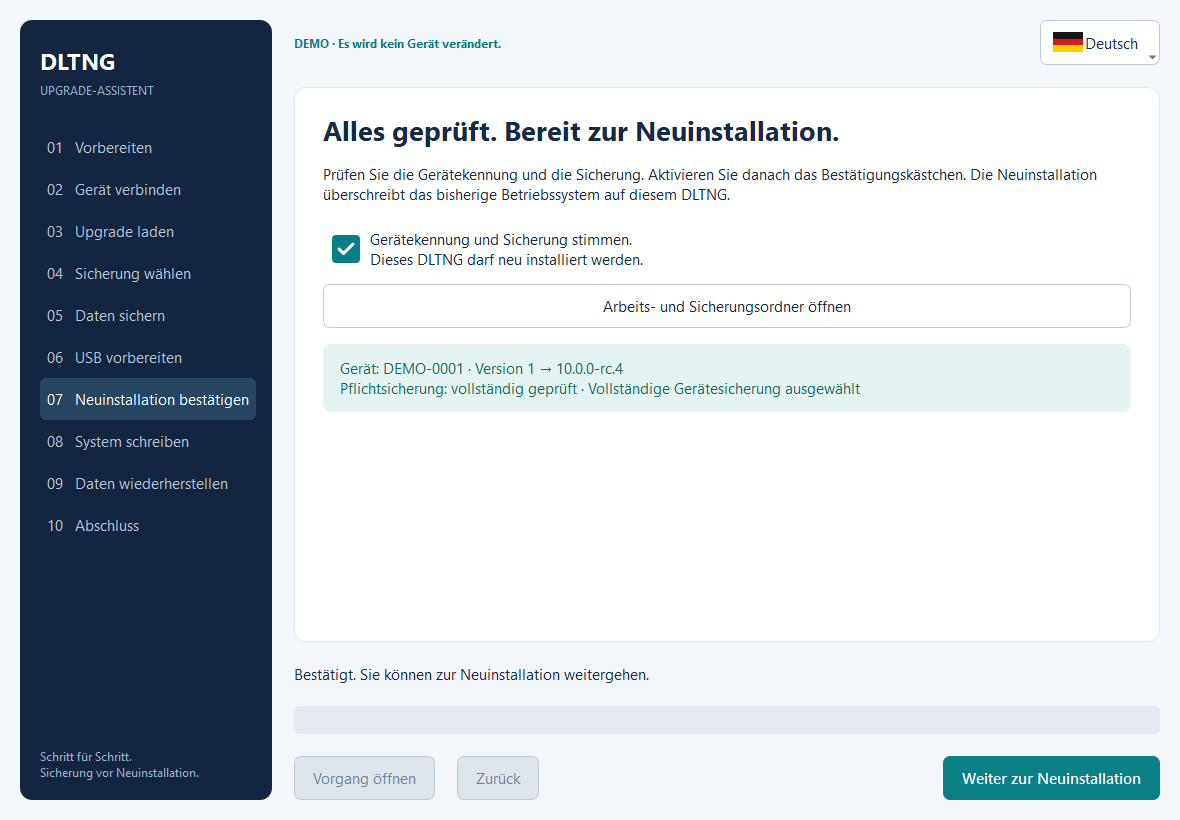
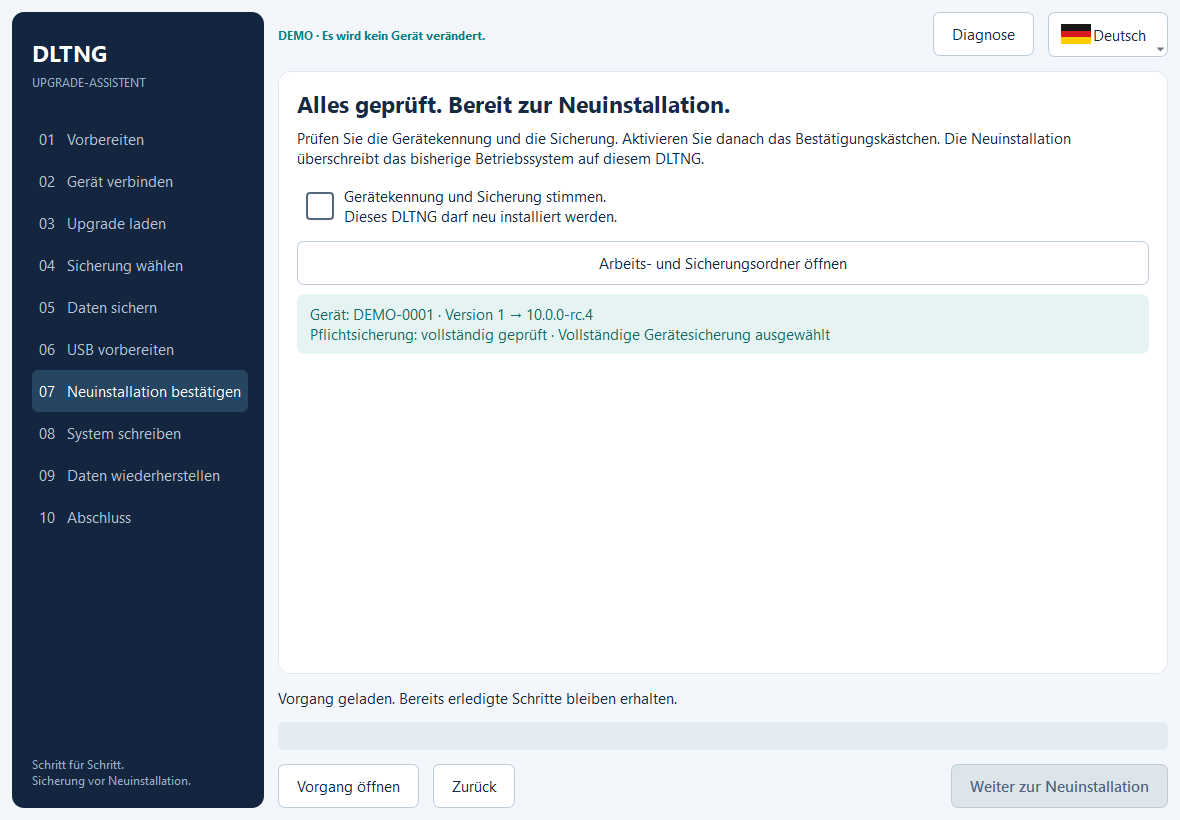
Document recovery, diagnostics and compact wizard in German and English

diff --git a/docs/de/troubleshooting.md b/docs/de/troubleshooting.md
@@ -16,9 +16,9 @@ Die Fehlermeldung nennt das Problem und einen nächsten Schritt. Sicherungen und
 
 ## Korrekturen für den aktuellen Test
 
-**Testausgabe 0.2.5 verwenden.** Die Bestätigung vor der Neuinstallation ist jetzt gut sichtbar; der Button wird erst nach Setzen des Häkchens aktiv. Fortschritt aus vorherigen Schritten wird zurückgesetzt und längere Prüfungen zeigen eigene Statusmeldungen. Sie korrigiert den Start des Windows-Helfers für USB-Treiber und direkte Ethernet-Verbindungen, die Lesbarkeit im dunklen Windows-Design und die Rückmeldungen der Gerätesuche. Die bekannten älteren NFC-/uWSGI-Protokolle werden mitgesichert; ein eigenes Anwendungssymbol ist enthalten. Ab 0.2.4 verhindern die USB-Schritte im Vordergrund das automatische Öffnen der Bootpartition. Neue, vergrößerbare Geräte- und Anschlussbilder basieren auf Originalfotos.
+**Testausgabe 0.2.6 verwenden.** Sie behebt Zugriffsfehler beim Austausch des Windows-Fortschritts und kann laufende oder bereits erfolgreich abgeschlossene Systemhelfer wieder aufnehmen. Die Oberfläche zeigt erledigte Schritte über **Zurück** an, ohne sie erneut auszuführen. Die kompakte Ansicht hält die Hauptaktion sichtbar; der Bildhinweis entfällt. **Diagnose** erklärt die Fehlercodes, exportiert ein bereinigtes ZIP und bietet nach Bestätigung den Versand an UPS an.
 
-Die vorherige EXE schließen, die neue EXE starten und **„Vorgang öffnen“** wählen. Dazu die bisherige `session.json` im dauerhaften Arbeitsordner auswählen. Das heruntergeladene Image kann weiterverwendet werden. Die Sicherung erneut ausführen; der Assistent prüft die Geräteidentität und aktualisiert den Sicherungshelfer. Den bisherigen Arbeitsordner aufbewahren. Falls das Altgerät zwischendurch wieder normal betrieben wurde, eine neue Sicherung erstellen.
+Lassen Sie das Gerät angeschlossen, solange ein Systemhelfer arbeitet. Nach dessen Abschluss die alte EXE schließen, 0.2.6 starten und **„Vorgang öffnen“** wählen. Die aktuelle `session.json` verwenden. Bei mehreren Vorgängen helfen Datum, Fortschritt und Ordner bei der Auswahl; der neueste steht oben. Bereits geprüfter Download und Sicherung bleiben erhalten. Ein erfolgreicher Schreibnachweis führt direkt zur Datenwiederherstellung. Falls das Altgerät nach der Sicherung wieder normal betrieben wurde, ist dagegen eine neue Sicherung erforderlich.
 
 Im vorhandenen LAN genügt die normale Geräteverbindung. Die direkte Serviceverbindung ist für ein eigenes Ethernet-Kabel zwischen PC und DLTNG vorgesehen. Administratorrechte fordert die App bei der jeweiligen Windows-Aktion an.
 
@@ -33,7 +33,7 @@ Keine unvollständige Datei als gültige Sicherung verwenden. Die Sitzung öffne
 
 ## Schreiben unterbrochen
 
-Arbeitsordner unverändert aufbewahren. Gerät anhand der freigegebenen Anleitung wieder in den Programmiermodus bringen, die gespeicherte Sitzung öffnen und das Image vollständig neu schreiben lassen. Anschließend wird wieder vollständig zurückgelesen. Nicht versuchen, an einer vermuteten Schreibposition manuell fortzusetzen.
+Arbeitsordner behalten und zuerst **Schreibstatus wieder aufnehmen**. Eine Fehlermeldung der Oberfläche bedeutet nicht zwingend, dass der Systemhelfer angehalten wurde. Während er arbeitet, Strom/USB angeschlossen lassen und keinen zweiten Versuch starten. Ein gespeicherter Erfolg führt zur Wiederherstellung ohne erneutes Schreiben. Erst bei tatsächlich fehlgeschlagenem/beendetem Helfer dem Wiederanlauf folgen, das USB-Gerät neu erkennen und das gesamte Image erneut schreiben und prüfen lassen.
 
 ## Wiederherstellung unterbrochen
 
@@ -46,3 +46,21 @@ Wenn eine geprüfte vollständige Gerätesicherung vorhanden ist, bietet der Ass
 ## Sprache und Arbeitsordner
 
 Die Sprachwahl gilt für den Arbeitsordner. Bei einem neuen Ordner startet der Assistent standardmäßig auf Deutsch. Die Flagge oben rechts wechselt auf Englisch. Eine Meldung über nicht speicherbare Spracheinstellungen bedeutet, dass Schreibrechte für diesen Ordner geprüft werden müssen.
+
+## Fehlercodes und Diagnosepaket
+
+Oben **Diagnose** wählen, nach dem Fehlercode suchen und den Handlungshinweis lesen. Der letzte technische Fehler lässt sich dort einsehen. **Diagnosepaket im Arbeitsordner erstellen** exportiert eine ZIP-Datei mit zeitlichem Verlauf einschließlich erreichbarer früherer Vorgänge desselben Geräts. Frühere Versionen haben technische Details teilweise nicht aufgezeichnet; diese können nicht nachträglich ergänzt werden.
+
+Das Paket enthält Gerätekennung, Rechnerpfade, Prüfergebnisse und bereinigte App-/Systemhelfer-Protokolle. Passwörter und Sitzungstoken werden entfernt; Nutzdateien, Datenbanken und Images werden nicht beigefügt. **Diagnosepaket an UPS senden** verlangt eine ausdrückliche Bestätigung. Internet und aktuelle Geräte-/Imagefreigabe sind erforderlich. Bei Fehlern bleibt das ZIP lokal erhalten.
+
+UPS bestätigt den Empfang mit einer Prüfsummenquittung. Pakete sind für angemeldete Administratoren unter **System-Images → Upgrade-Diagnose** verfügbar, werden 30 Tage aufbewahrt und nicht automatisch mit KI ausgewertet. Pro ZIP sind maximal 20 MiB zulässig.
+
+| Code | Bedeutung und nächster Schritt |
+|---|---|
+| `APP-001`, `WIN-099` | Unerwarteter App-/Systemhelferfehler. Bei Schreibphase zuerst Status wieder aufnehmen; Diagnosepaket erstellen. |
+| `WIN-010` | Windows-Administratorabfrage abgebrochen. Erneut starten und die eigene DLTNG-App freigeben. |
+| `WIN-013` | Ein Systemhelfer schreibt bereits. Angeschlossen lassen, dessen Status wieder aufnehmen. |
+| `WIN-016` | Systemhelfer ohne vollständiges Ergebnis beendet. Geführten Wiederanlauf verwenden. |
+| `SES-007` | Schreibnachweis gehört nicht zur Sitzung. Richtige Sitzung wählen; Support einschalten. |
+| `DIA-001` | Diagnosepaket über 20 MiB. Lokal behalten und Support kontaktieren. |
+| `DIA-002` | UPS hat den Upload nicht angenommen. Lokales ZIP behalten, Verbindung und Freigabe prüfen. |

diff --git a/docs/en/troubleshooting.md b/docs/en/troubleshooting.md
@@ -16,9 +16,9 @@ Error messages describe the problem and the next action. Backups and session sta
 
 ## Fixes for the current test
 
-**Use test build 0.2.5.** The installation confirmation is now clearly visible; its button becomes active only after ticking the box. Progress from previous steps is cleared and long checks show their own status messages. It fixes Windows helper startup for USB drivers and direct Ethernet connections, readability with dark Windows settings, and device-search feedback. Known legacy NFC/uWSGI logs are included in the backup; a dedicated application icon is included.From 0.2.4, USB steps in the foreground suppress automatic opening of the boot partition. New, enlargeable device and connector illustrations are based on original photos.
+**Use test build 0.2.6.** It tolerates Windows progress-file access errors and resumes active or successfully completed helpers. **Back** reviews completed steps without repeating operations. The compact view keeps the primary action visible and removes the picture caption. **Diagnostics** explains error codes, exports a redacted ZIP and offers user-confirmed upload to UPS.
 
-Close the previous EXE, start the new one and choose **“Open session”**. Select the existing `session.json` in the permanent work folder. The downloaded image can be reused. Run the backup again; the wizard verifies device identity and refreshes the backup helper. Keep the existing work folder. If the old device has since resumed normal operation, create a fresh backup.
+Keep the device connected while a helper is working. After it finishes, close the old EXE, start 0.2.6 and choose **“Open session”** with the current `session.json`. If multiple sessions exist, choose using their date, progress and folder; newest is listed first. Verified downloads and backups are retained. A successful saved write result leads directly to data restoration. If the original device resumed normal operation after backup, a fresh backup is required.
 
 On an existing LAN, use the normal device connection. The direct service connection is intended for a dedicated Ethernet cable between the PC and DLTNG. The app requests administrator rights for the relevant Windows operation.
 
@@ -33,7 +33,7 @@ Never treat an incomplete file as a valid backup. Open the session and follow th
 
 ## Interrupted writing
 
-Keep the work folder intact. Follow the approved instructions to return the device to programming mode, open the saved session and let the wizard write the entire image again. Full read-back verification follows. Do not try to resume manually at a guessed write position.
+Keep the work folder and first choose **Resume write monitoring**. A UI error does not necessarily mean the helper stopped. While it is running, keep power/USB connected and do not start another attempt. A saved success leads to restoration without writing again. Only after an actual helper failure/exit should you follow recovery, rediscover USB and write and verify the entire image again.
 
 ## Interrupted restoration
 
@@ -46,3 +46,21 @@ If a verified complete device backup exists, the wizard offers to write it back 
 ## Language and work folder
 
 The language preference belongs to the work folder. A new folder defaults to German. Use the flag at the top right to switch to English. A message saying the language preference cannot be saved means the folder's write permissions need checking.
+
+## Error codes and diagnostic package
+
+Select **Diagnostics** at the top, search for the error code and read its next action. The latest technical error is shown there. **Create diagnostic package in working folder** exports a ZIP timeline including available earlier sessions for the same device. Older versions did not record all technical details; missing details cannot be recreated.
+
+Packages contain device IDs, computer paths, check results and redacted app/helper logs. Passwords and session tokens are removed; customer files, databases and images are excluded. **Send diagnostic package to UPS** requires explicit confirmation, Internet access and current device/image authorisation. Failed uploads retain the local ZIP.
+
+UPS returns a checksum receipt. Logged-in administrators find packages under **System Images → Upgrade diagnostics**. Packages are retained for 30 days, are not automatically processed by AI, and have a 20 MiB upload limit.
+
+| Code | Meaning and next action |
+|---|---|
+| `APP-001`, `WIN-099` | Unexpected app/helper error. During writing, resume monitoring first; create a diagnostic package. |
+| `WIN-010` | Windows administrator prompt cancelled. Retry and approve your DLTNG app. |
+| `WIN-013` | A helper is already writing. Keep the device connected and resume monitoring. |
+| `WIN-016` | Helper exited without a complete result. Use guided recovery. |
+| `SES-007` | Write record belongs to another session. Choose the correct session; contact support. |
+| `DIA-001` | Package exceeds 20 MiB. Keep it locally and contact support. |
+| `DIA-002` | UPS rejected the upload. Keep the local ZIP; check connection and authorisation. |

diff --git a/docs/de/guide.md b/docs/de/guide.md
@@ -2,7 +2,7 @@
 
 Diese Anleitung beschreibt den vorgesehenen Ablauf. In der aktuellen Entwicklungsausgabe lässt er sich vollständig im **Demomodus** ausprobieren. Ein echter Flashvorgang setzt ein ausdrücklich freigegebenes Gerät und ein passendes signiertes Image voraus.
 
-Diese Anleitung berücksichtigt die **Testausgabe 0.2.5**, einschließlich der neuen Bestätigungsanzeige, Anschlussbilder und Explorer-Unterdrückung. Der öffentliche Standarddownload bleibt 0.2.0; die Testausgabe wird für das freigegebene Laborgerät bereitgestellt.
+Diese Anleitung berücksichtigt die **Testausgabe 0.2.6**, einschließlich der neuen Bestätigungsanzeige, Anschlussbilder und Explorer-Unterdrückung. Der öffentliche Standarddownload bleibt 0.2.0; die Testausgabe wird für das freigegebene Laborgerät bereitgestellt.
 
 ## Vor dem Start
 
@@ -18,7 +18,7 @@ Oben rechts auf die **Landesflagge mit Sprachname** klicken und **Deutsch** oder
 
 ![Sprachwahl und Startseite](assets/ui-de.png)
 
-*Abbildung: Demomodus der Testausgabe 0.2.4.*
+*Abbildung: Demomodus der Testausgabe 0.2.6.*
 
 ## 1 · Vorbereiten
 
@@ -28,7 +28,7 @@ Oben rechts auf die **Landesflagge mit Sprachname** klicken und **Deutsch** oder
 
 PC und DLTNG an dasselbe LAN anschließen. Die IP-Adresse des DLTNG eingeben oder **„DLTNG im Netzwerk suchen“** wählen. **„Gerät prüfen“** liest Gerätekennung, Hardware und Version.
 
-Bei einem direkten Ethernet-Kabel den ausdrücklich dafür verwendeten PC-Adapter auswählen. Bei fester Geräteadresse auch die Netzgröße angeben, beispielsweise `192.168.1.25/24`. Für ein Gerät mit DHCP steht die begrenzte Hilfe **„Direktverbindung: DLTNG ohne feste IP finden“** zur Verfügung. Diese nur auf einer direkten Kabelverbindung ohne Firmennetz oder Switch aktivieren.
+Über **„Optionen für direkte Kabelverbindung anzeigen“** die zusätzlichen Einstellungen öffnen. Bei einem direkten Ethernet-Kabel den ausdrücklich dafür verwendeten PC-Adapter auswählen. Bei fester Geräteadresse auch die Netzgröße angeben, beispielsweise `192.168.1.25/24`. Für ein Gerät mit DHCP steht die begrenzte Hilfe **„Direktverbindung: DLTNG ohne feste IP finden“** zur Verfügung. Diese nur auf einer direkten Kabelverbindung ohne Firmennetz oder Switch aktivieren.
 
 ## 3 · Upgrade laden
 
@@ -50,7 +50,7 @@ Gesichert werden die bekannten Konfigurationen, Nutzdateien, lokalen Datenbanken
 
 ## 6 · USB vorbereiten
 
-**„Gerät herunterfahren“** wählen. Anschließend die **freigegebene Anleitung für die tatsächliche Trägerplatine** zum Boot-Taster und Programmierkabel befolgen. Danach **„USB-Gerät erkennen“** wählen.
+**„Gerät herunterfahren“** wählen und warten, bis das Display vollständig aus ist. Erst danach das Stromkabel abziehen. Das Ausstecken ersetzt kein geregeltes Herunterfahren. Anschließend die **freigegebene Anleitung für die tatsächliche Trägerplatine** zum Boot-Taster und Programmierkabel befolgen. Danach **„USB-Gerät erkennen“** wählen.
 
 ### Die Anschlüsse erkennen
 
@@ -77,9 +77,9 @@ Windows stellt diese [AutoPlay-Abfrage an das Vordergrundfenster](https://learn.
 
 ## 7 · Neuinstallation bestätigen
 
-Gerätekennung, Zielversion und Sicherungsstatus kontrollieren. Nur für das richtige Gerät das Kästchen **„Gerätekennung und Sicherung stimmen“** aktivieren. Danach wird **„Weiter zur Neuinstallation“** freigegeben. Dieser Klick öffnet Schritt 8; er startet noch keinen Schreibvorgang.
+Gerätekennung, Zielversion und Sicherungsstatus kontrollieren. Nur für das richtige Gerät das Kästchen **„Gerätekennung und Sicherung stimmen“** aktivieren. Es erscheint ein Hinweis zu Unterbrechung, möglicher Startunfähigkeit, eigenem Risiko und Benutzerkontensteuerung. Nur nach dessen Zustimmung bleibt das Häkchen gesetzt. Danach wird **„Weiter zur Neuinstallation“** freigegeben. Dieser Klick öffnet Schritt 8; er startet noch keinen Schreibvorgang.
 
-![Sichtbare Bestätigung in Testausgabe 0.2.5](assets/confirmation-de.png)
+![Sichtbare Bestätigung in Testausgabe 0.2.6](assets/confirmation-de.png)
 
 Fehlt das Häkchen, bleibt die Schaltfläche grau und der Status fordert zur Bestätigung auf. Vor dem eigentlichen Start steht der Fortschritt auf null.
 
@@ -102,3 +102,6 @@ Den Sicherungsordner aufbewahren. Er enthält Sicherung, Sitzungszustand und Pro
 ## Wieder aufnehmen oder zurückkehren
 
 Über **„Vorgang öffnen“** die `session.json` im bisherigen Arbeitsordner auswählen. Das Programm setzt an der passenden Stelle fort. Wenn das Altgerät nach der Sicherung wieder normal gearbeitet hat, ist eine neue Sicherung notwendig. Eine vorhandene vollständige Gerätesicherung kann über **„Ursprüngliches System wiederherstellen“** auf dasselbe Gerät zurückgeschrieben werden; danach muss dessen Start geprüft werden.
+
+
+**Zurück** zeigt bereits erledigte Schritte zur Ansicht. **Weiter** führt vorwärts, ohne Aktionen zu wiederholen. Diagnosepakete und Wiederaufnahme laufender Schreibvorgänge sind in der [Fehlerhilfe](troubleshooting.md) beschrieben.

diff --git a/docs/en/guide.md b/docs/en/guide.md
@@ -2,7 +2,7 @@
 
 This guide describes the intended workflow. You can try every step in **demo mode** in the current development edition. Actual flashing requires an explicitly approved device and a matching signed image.
 
-This guide covers **test build 0.2.5**, including the new confirmation display, connector illustrations and Explorer suppression. The public standard download remains 0.2.0; the test build is supplied for the approved lab device.
+This guide covers **test build 0.2.6**, including the new confirmation display, connector illustrations and Explorer suppression. The public standard download remains 0.2.0; the test build is supplied for the approved lab device.
 
 ## Before you start
 
@@ -28,7 +28,7 @@ Start `DLTNG-Upgrade.exe`. Choose the work and backup folder if needed and use *
 
 Connect the PC and DLTNG to the same LAN. Enter the DLTNG IP address or select **“Find DLTNG on the network”**. **“Check device”** reads its identity, hardware and version.
 
-For a direct Ethernet cable, select the PC adapter used specifically for that connection. For a static device address, include the network prefix, for example `192.168.1.25/24`. For a DHCP device, limited assistance is available through **“Direct connection: find DLTNG without a static IP”**. Enable this only on a direct cable connection without a company network or switch.
+Open **“Show direct cable connection options”** for additional settings. For a direct Ethernet cable, select the PC adapter used specifically for that connection. For a static device address, include the network prefix, for example `192.168.1.25/24`. For a DHCP device, limited assistance is available through **“Direct connection: find DLTNG without a static IP”**. Enable this only on a direct cable connection without a company network or switch.
 
 ## 3 · Download upgrade
 
@@ -50,7 +50,7 @@ Known configuration, data files, local databases, transfer records and device id
 
 ## 6 · Prepare USB
 
-Select **“Shut down device”**. Then follow the **approved instructions for the actual carrier board** for its boot button and programming cable. Select **“Detect USB device”** afterwards.
+Select **“Shut down device”**, wait until the display is completely off, then unplug power. Unplugging power is not a substitute for controlled shutdown. Then follow the **approved instructions for the actual carrier board** for its boot button and programming cable. Select **“Detect USB device”** afterwards.
 
 ### Identify the connectors
 
@@ -77,9 +77,9 @@ Windows sends this [AutoPlay query to the foreground window](https://learn.micro
 
 ## 7 · Confirm installation
 
-Check the device identity, target version and backup status. For the correct device only, tick **“The device identity and backup are correct”**. This enables **“Continue to installation”**. That click opens step 8; it does not start writing yet.
+Check the device identity, target version and backup status. For the correct device only, tick **“The device identity and backup are correct”**. A warning explains interruption, possible boot failure, own risk and User Account Control. The checkbox remains ticked only if you accept. This enables **“Continue to installation”**. That click opens step 8; it does not start writing yet.
 
-![Visible confirmation in test build 0.2.5](assets/confirmation-en.png)
+![Visible confirmation in test build 0.2.6](assets/confirmation-en.png)
 
 Without the checkmark, the button stays grey and the status asks for confirmation. Progress stays at zero before the operation starts.
 
@@ -102,3 +102,6 @@ Keep the backup folder. It contains your backup, session state and log and is ne
 ## Resume or recover
 
 Use **“Open session”** to select `session.json` in the previous work folder. The application resumes at the appropriate step. If the original device resumed normal operation after backup, create a new backup. An available complete device backup can be written back to the same device using **“Restore original system”**; its startup must then be checked.
+
+
+**Back** reviews completed steps. **Next** moves forward without repeating operations. See [Troubleshooting](troubleshooting.md) for diagnostic packages and resuming write monitoring.

diff --git a/docs/de/pilot.md b/docs/de/pilot.md
@@ -4,9 +4,9 @@ Eine gesonderte Testausgabe ab Version 0.2.1 kann ein signiertes Laborimage übe
 
 ## Korrekturen für den aktuellen Test
 
-**Testausgabe 0.2.5 verwenden.** Die Bestätigung vor der Neuinstallation ist jetzt gut sichtbar; der Button wird erst nach Setzen des Häkchens aktiv. Fortschritt aus vorherigen Schritten wird zurückgesetzt und längere Prüfungen zeigen eigene Statusmeldungen. Sie korrigiert den Start des Windows-Helfers für USB-Treiber und direkte Ethernet-Verbindungen, die Lesbarkeit im dunklen Windows-Design und die Rückmeldungen der Gerätesuche. Die bekannten älteren NFC-/uWSGI-Protokolle werden mitgesichert; ein eigenes Anwendungssymbol ist enthalten. Ab 0.2.4 verhindern die USB-Schritte im Vordergrund das automatische Öffnen der Bootpartition. Neue, vergrößerbare Geräte- und Anschlussbilder basieren auf Originalfotos.
+**Testausgabe 0.2.6 verwenden.** Sie behebt Zugriffsfehler beim Austausch des Windows-Fortschritts und kann laufende oder bereits erfolgreich abgeschlossene Systemhelfer wieder aufnehmen. Die Oberfläche zeigt erledigte Schritte über **Zurück** an, ohne sie erneut auszuführen. Die kompakte Ansicht hält die Hauptaktion sichtbar; der Bildhinweis entfällt. **Diagnose** erklärt die Fehlercodes, exportiert ein bereinigtes ZIP und bietet nach Bestätigung den Versand an UPS an.
 
-Die vorherige EXE schließen, die neue EXE starten und **„Vorgang öffnen“** wählen. Dazu die bisherige `session.json` im dauerhaften Arbeitsordner auswählen. Das heruntergeladene Image kann weiterverwendet werden. Die Sicherung erneut ausführen; der Assistent prüft die Geräteidentität und aktualisiert den Sicherungshelfer. Den bisherigen Arbeitsordner aufbewahren. Falls das Altgerät zwischendurch wieder normal betrieben wurde, eine neue Sicherung erstellen.
+Lassen Sie das Gerät angeschlossen, solange ein Systemhelfer arbeitet. Nach dessen Abschluss die alte EXE schließen, 0.2.6 starten und **„Vorgang öffnen“** wählen. Die aktuelle `session.json` verwenden. Bei mehreren Vorgängen helfen Datum, Fortschritt und Ordner bei der Auswahl; der neueste steht oben. Bereits geprüfter Download und Sicherung bleiben erhalten. Ein erfolgreicher Schreibnachweis führt direkt zur Datenwiederherstellung. Falls das Altgerät nach der Sicherung wieder normal betrieben wurde, ist dagegen eine neue Sicherung erforderlich.
 
 Im vorhandenen LAN genügt die normale Geräteverbindung. Die direkte Serviceverbindung ist für ein eigenes Ethernet-Kabel zwischen PC und DLTNG vorgesehen. Administratorrechte fordert die App bei der jeweiligen Windows-Aktion an.
 

diff --git a/docs/en/pilot.md b/docs/en/pilot.md
@@ -4,9 +4,9 @@ A separately configured test build, version 0.2.1 or later, can retrieve a signe
 
 ## Fixes for the current test
 
-**Use test build 0.2.5.** The installation confirmation is now clearly visible; its button becomes active only after ticking the box. Progress from previous steps is cleared and long checks show their own status messages. It fixes Windows helper startup for USB drivers and direct Ethernet connections, readability with dark Windows settings, and device-search feedback. Known legacy NFC/uWSGI logs are included in the backup; a dedicated application icon is included.From 0.2.4, USB steps in the foreground suppress automatic opening of the boot partition. New, enlargeable device and connector illustrations are based on original photos.
+**Use test build 0.2.6.** It tolerates Windows progress-file access errors and resumes active or successfully completed helpers. **Back** reviews completed steps without repeating operations. The compact view keeps the primary action visible and removes the picture caption. **Diagnostics** explains error codes, exports a redacted ZIP and offers user-confirmed upload to UPS.
 
-Close the previous EXE, start the new one and choose **“Open session”**. Select the existing `session.json` in the permanent work folder. The downloaded image can be reused. Run the backup again; the wizard verifies device identity and refreshes the backup helper. Keep the existing work folder. If the old device has since resumed normal operation, create a fresh backup.
+Keep the device connected while a helper is working. After it finishes, close the old EXE, start 0.2.6 and choose **“Open session”** with the current `session.json`. If multiple sessions exist, choose using their date, progress and folder; newest is listed first. Verified downloads and backups are retained. A successful saved write result leads directly to data restoration. If the original device resumed normal operation after backup, a fresh backup is required.
 
 On an existing LAN, use the normal device connection. The direct service connection is intended for a dedicated Ethernet cable between the PC and DLTNG. The app requests administrator rights for the relevant Windows operation.
 

diff --git a/docs/de/changelog.md b/docs/de/changelog.md
@@ -1,5 +1,13 @@
 # Programmänderungen
 
+### 0.2.6 – 2026-09-16 · Wiederaufnahme und Diagnose
+
+- Windows-Fortschrittsaustausch gegen kurzzeitige Dateisperren absichern; Anzeigeausfälle unterbrechen keinen Schreibvorgang.
+- Laufende/abgeschlossene Systemhelfer wieder aufnehmen; mehrere Sitzungen nach Datum und Gerätebezug auswählen. Zurückblättern ohne erneute Ausführung.
+- Kompakte Oberfläche ohne Bildunterschrift, sichtbare Hauptaktionen, vergrößerbare Anschlussbilder und direkte Netzwerkoptionen bei Bedarf.
+- Risiko-/UAC-Dialog vor Freigabe; erst nach Herunterfahren und ausgeschaltetem Display den Stromstecker ziehen.
+- Zweisprachige Fehlercode-Hilfe, bereinigte zeitliche Protokolle, Diagnose-ZIP und bestätigter UPS-Versand.
+
 ### 0.2.5 – 2026-09-16 · Bestätigung und Fortschritt
 
 - Gut sichtbare Bestätigungskästchen mit Rahmen und Häkchen; gesperrte Hauptschaltflächen klar grau darstellen.

diff --git a/docs/en/changelog.md b/docs/en/changelog.md
@@ -1,5 +1,13 @@
 # Application changelog
 
+### 0.2.6 – 2026-09-16 · Resume and diagnostics
+
+- Tolerate transient Windows progress-file locks; telemetry failures do not interrupt disk writes.
+- Resume active/completed helpers and select matching sessions by date; review earlier steps without repeating actions.
+- Compact responsive UI, no picture caption, persistent primary actions and on-demand direct network options.
+- Explicit interruption/risk/UAC warning; unplug power only after shutdown and display-off.
+- Bilingual error reference, redacted chronological logs, diagnostic ZIP and user-confirmed UPS upload.
+
 ### 0.2.5 – 2026-09-16 · Confirmation and progress
 
 - Clearly visible confirmation boxes with borders and checkmarks; disabled primary buttons appear grey.
